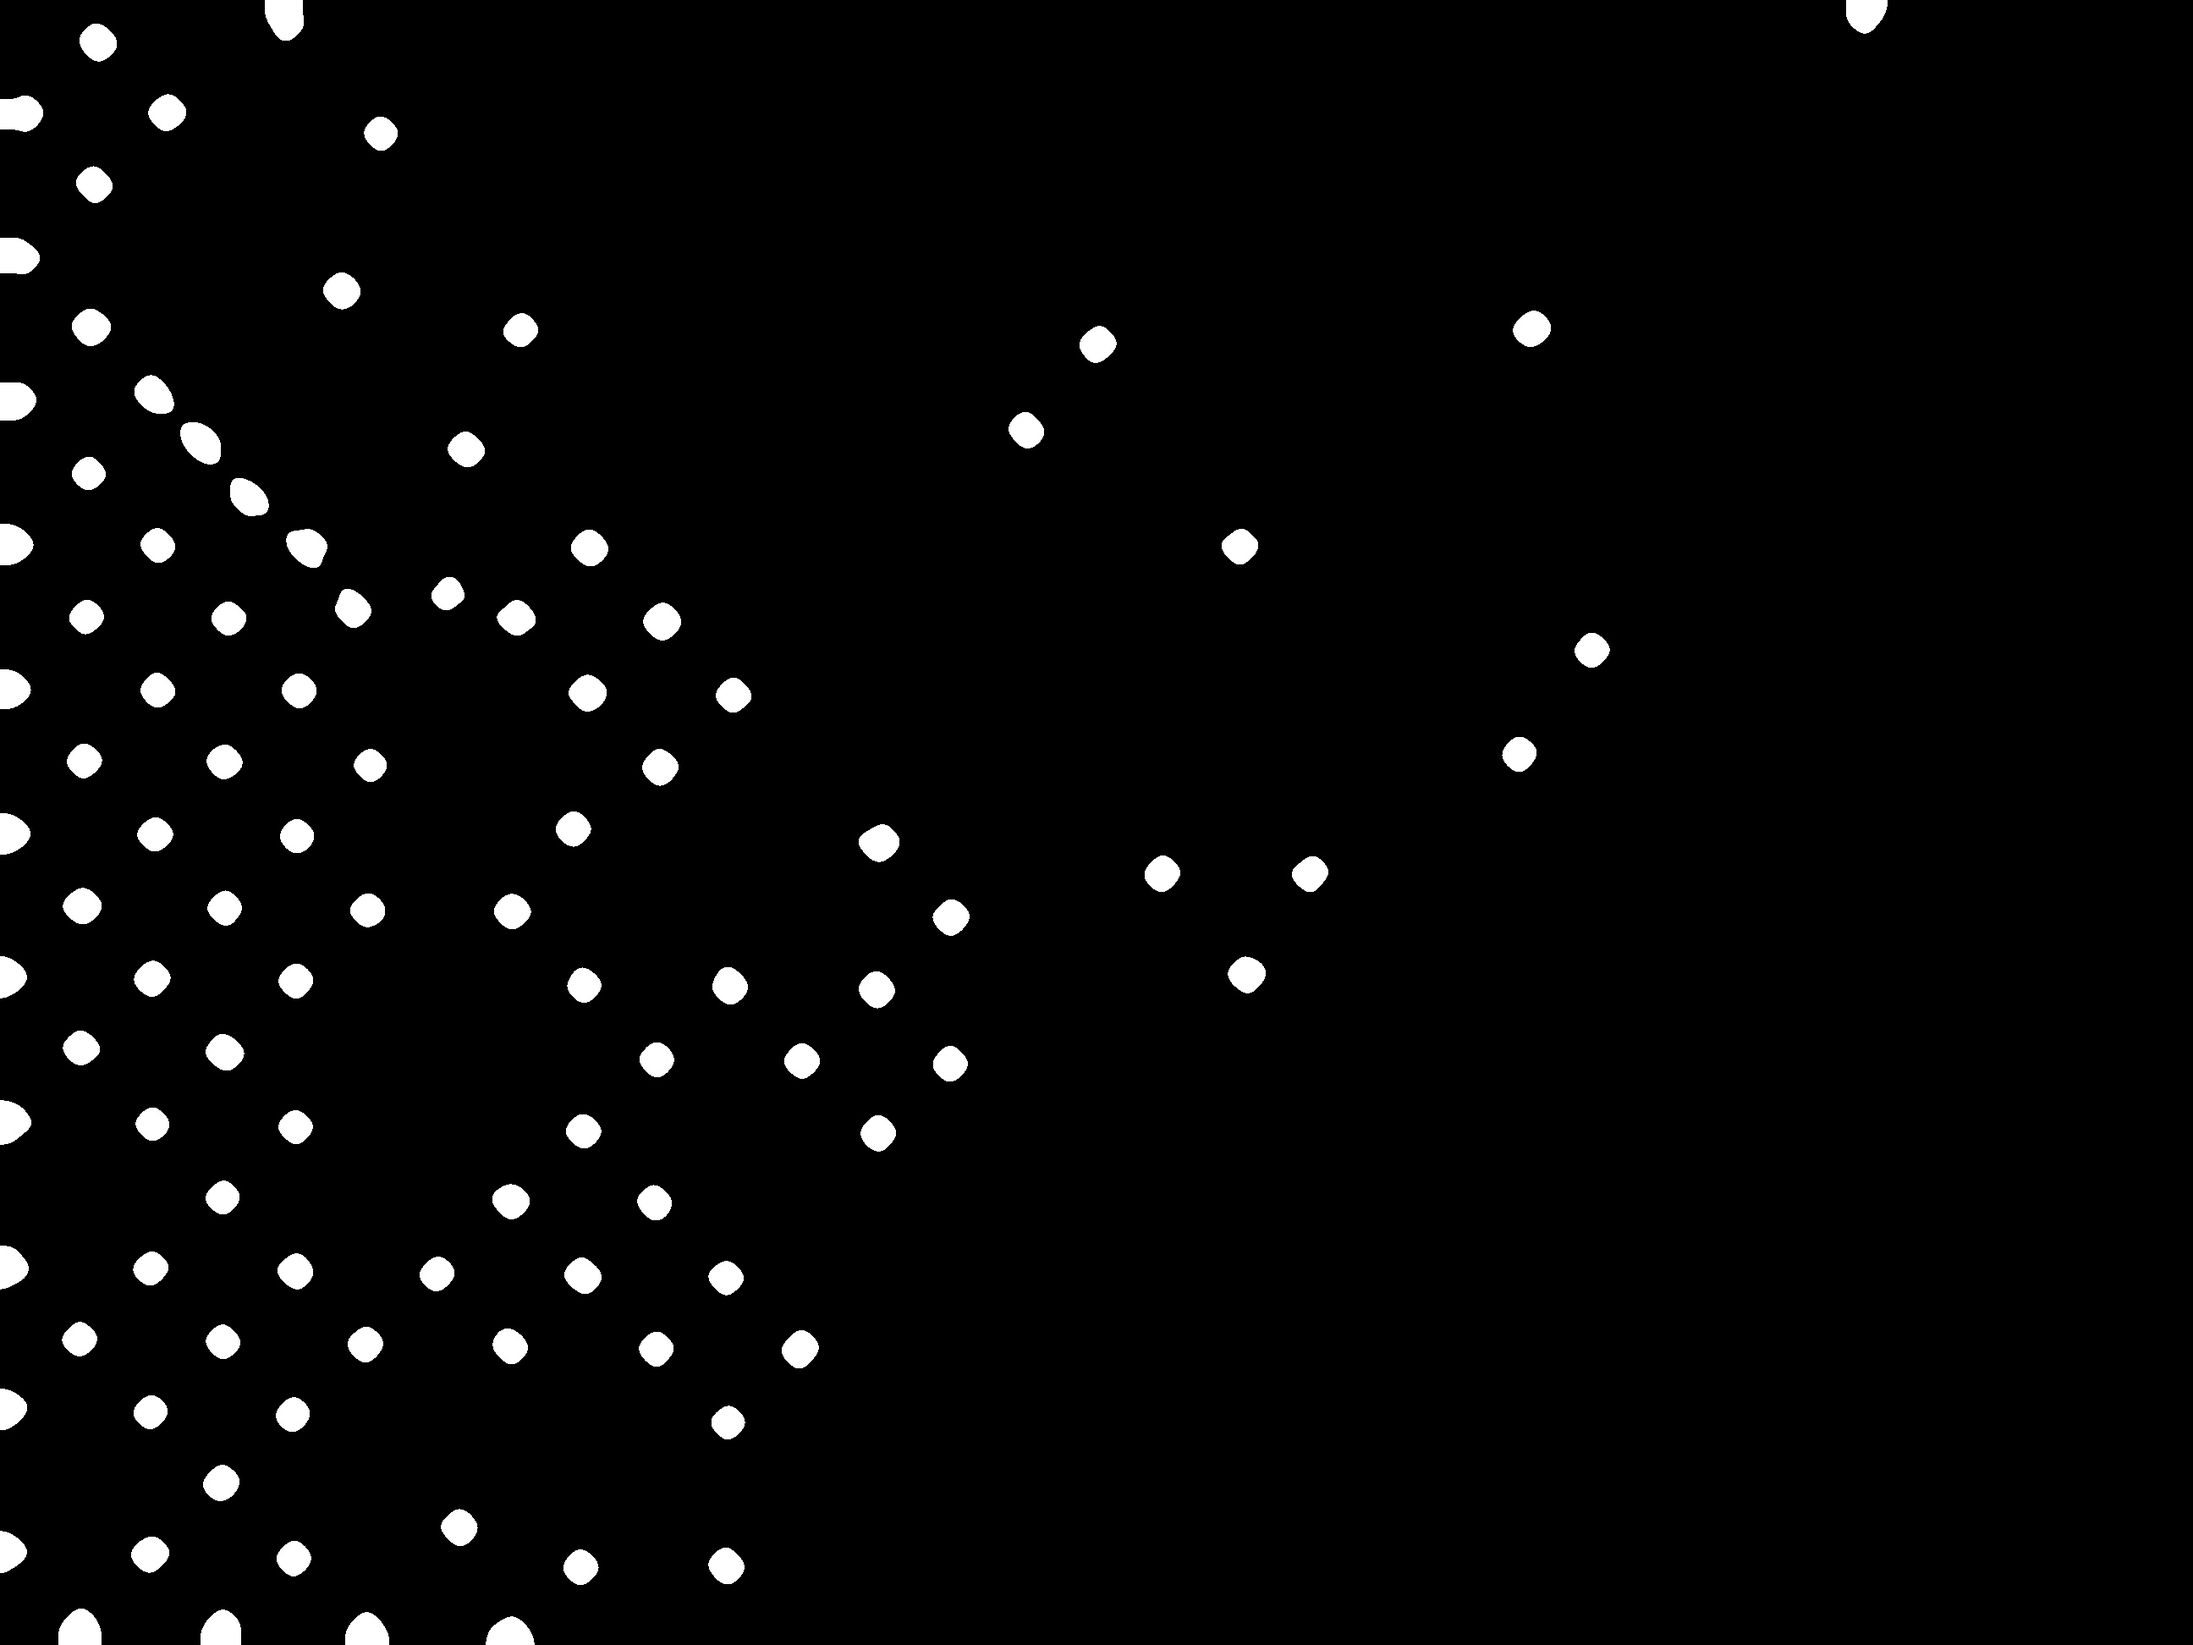
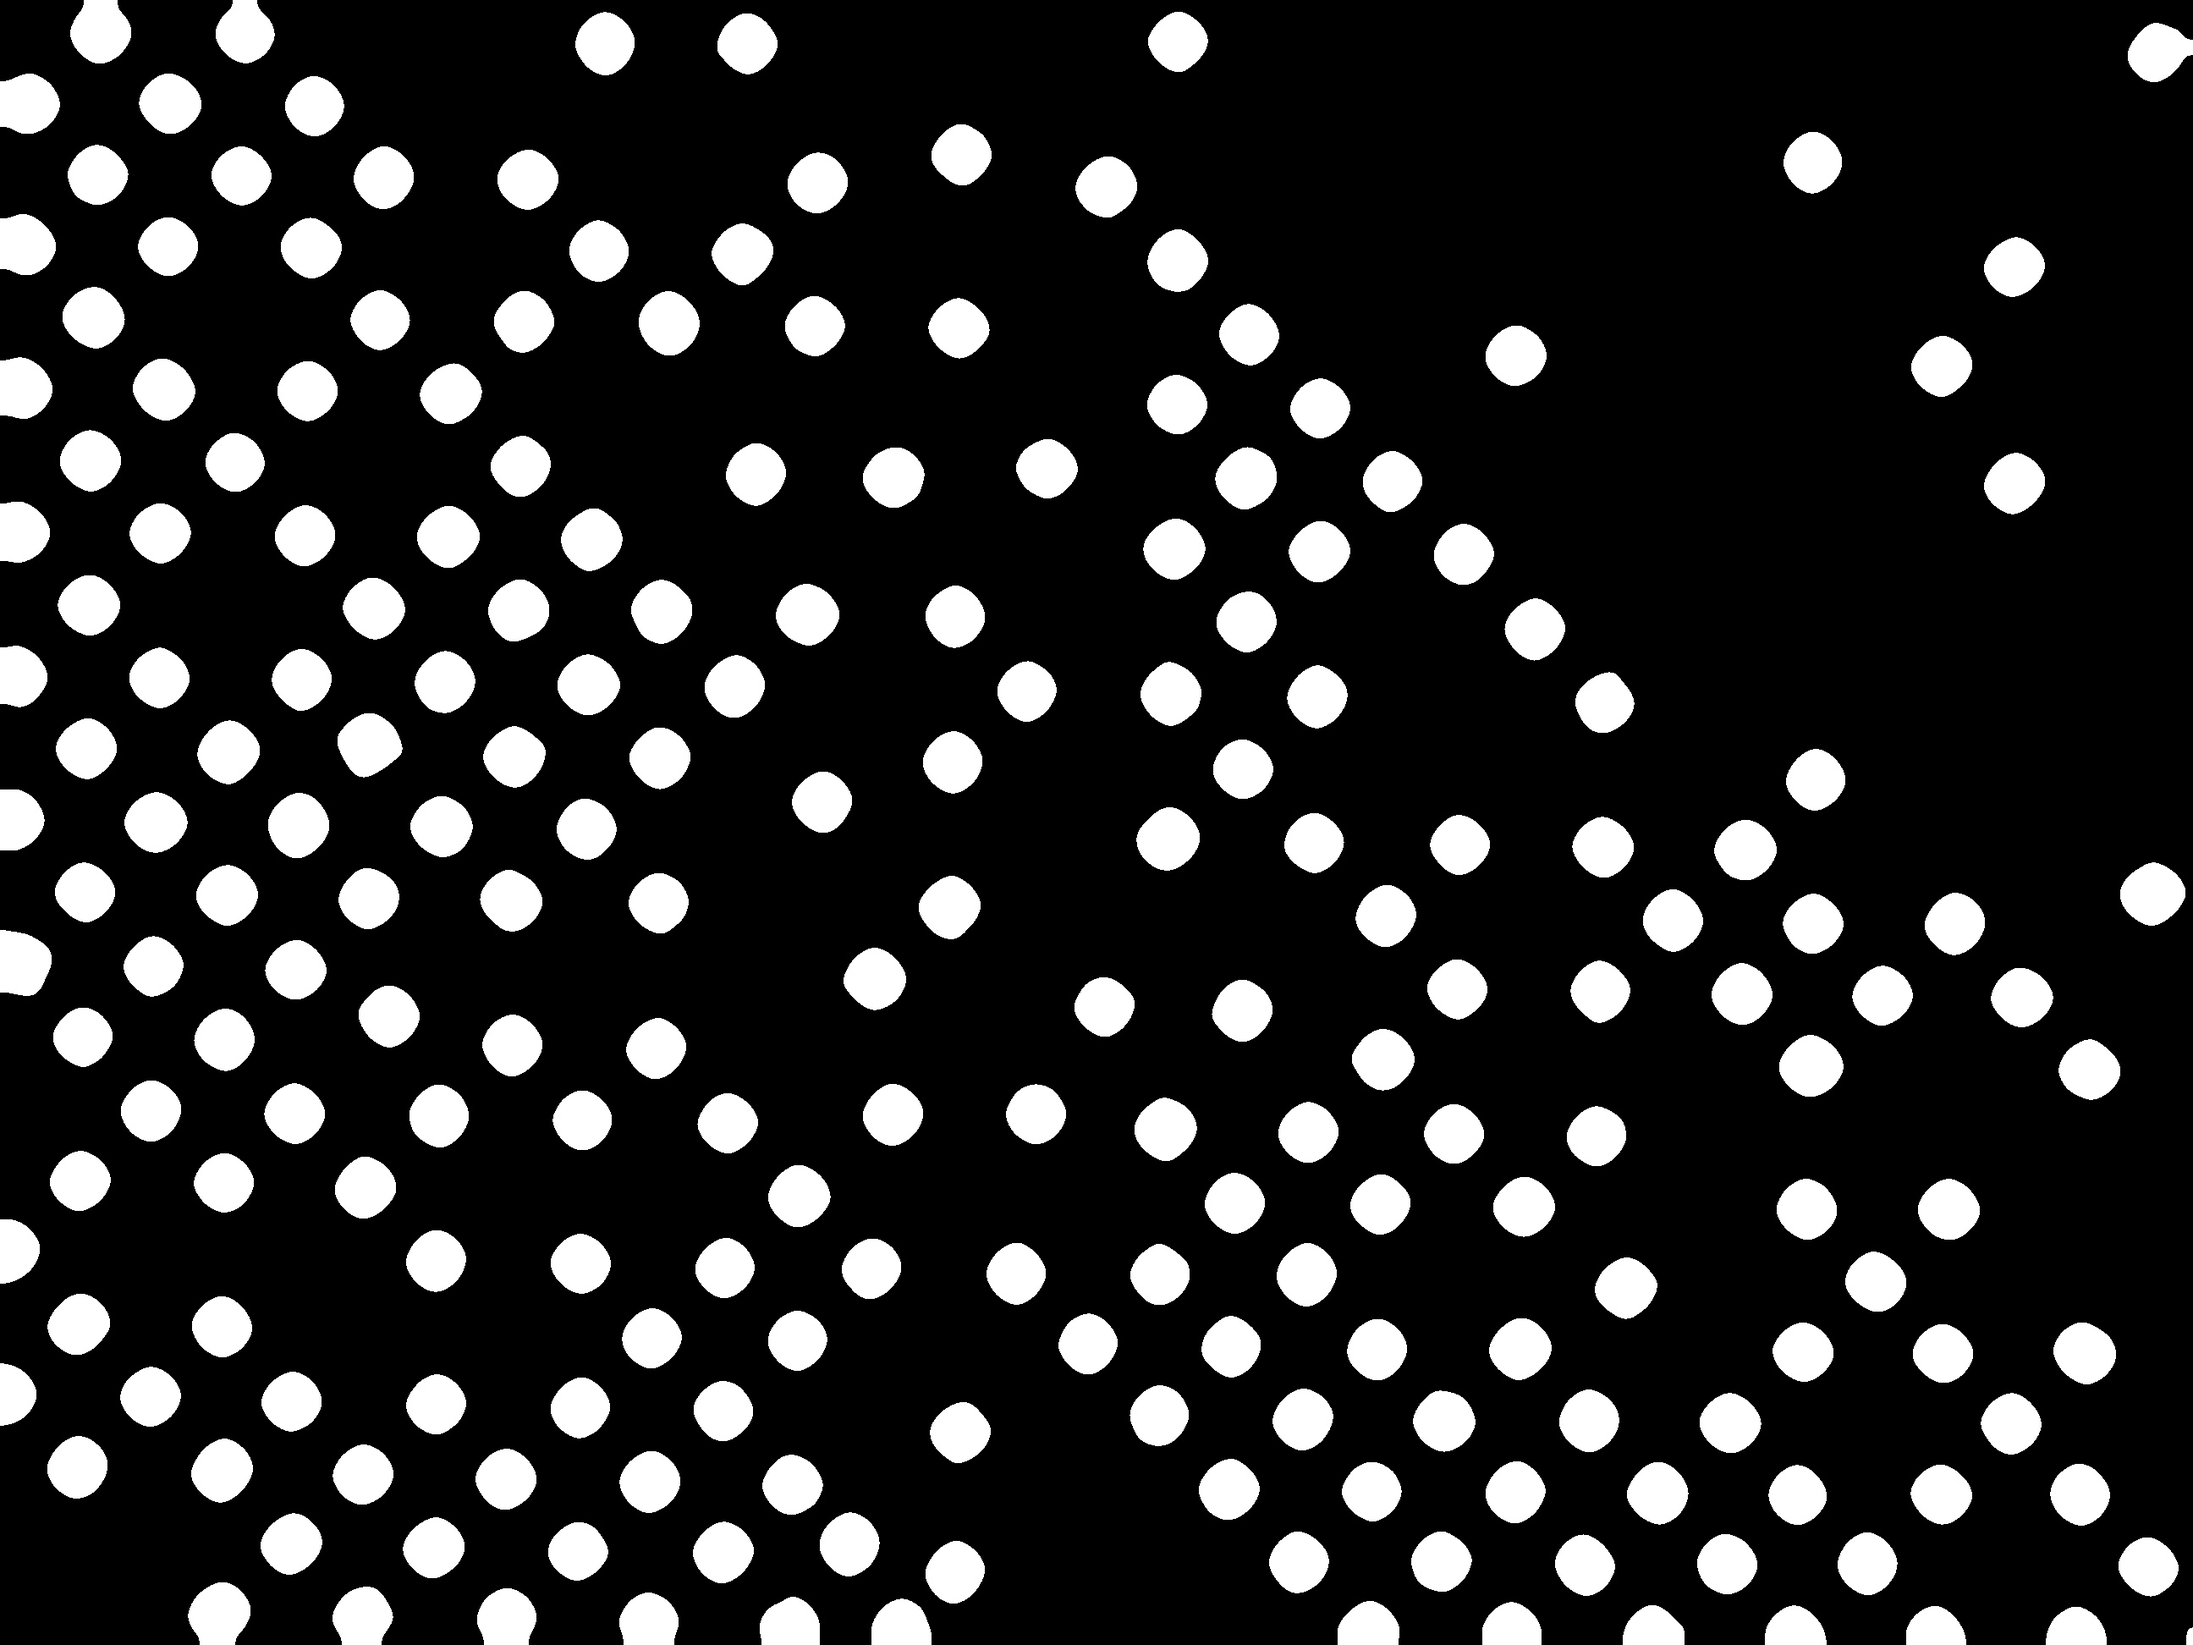
liveCV win

diff --git a/P-III/src/computerVision/test.stdin.py b/P-III/src/computerVision/test.stdin.py
@@ -6,13 +6,116 @@
 # @Last Modified by:   vincent evrard
 # @Last Modified time: 2022-10-18 00:14:27
 
-import sys
-import select
-sys.stdout.reconfigure(encoding='utf-8')
-sys.stdin.reconfigure(encoding='utf-8')
 
-while True :
-	i, o, e  = select.select( [sys.stdin], [], [], 0.1)
-	if len(i) > 0 :
-		res = sys.stdin.readline().strip()
-		sys.stdout.write(res)
+import sys
+import threading
+
+last_line = ''
+new_line_event = threading.Event()
+
+def keep_last_line():
+    global last_line, new_line_event
+    for line in sys.stdin:
+        last_line = line
+        new_line_event.set()
+
+keep_last_line_thread = threading.Thread(target=keep_last_line)
+keep_last_line_thread.daemon = True
+keep_last_line_thread.start()
+flag = True
+while(flag):
+	if( "close" in last_line):
+		flag=False
+	elif(last_line):
+		print(last_line)
+		last_line=''
+		
+print("Finished")
+quit()
+
+# import sys
+# try:
+#     import thread
+# except ImportError:
+#     import _thread as thread
+# from threading import Timer
+
+# sys.stdout.reconfigure(encoding='utf-8')
+# sys.stdin.reconfigure(encoding='utf-8')
+
+
+# def run_with_timeout(timeout, kill, default, f, *args, **kwargs):
+#     if not timeout:
+#         return f(*args, **kwargs)
+#     try:
+#         timeout_timer = Timer(timeout, thread.interrupt_main)
+#         timeout_timer.start()
+#         result = f(*args, **kwargs).strip()
+#         return result
+#     except KeyboardInterrupt:
+#         return kill
+#     finally:
+#         timeout_timer.cancel()
+
+# while(True):
+#     line = run_with_timeout(1, None, False, sys.stdin.readline)
+#     if line is None:
+#         break
+#     elif line is False:
+#         print(".")
+#     else:
+#         print(line)
+
+
+# async def readStdin(timeout=None):
+# 	try:
+# 		return await asyncio.wait_for(sys.stdin.readline(), timeout)
+# 	except asyncio.TimeoutError:
+# 		print("fail");
+# 		return False
+
+
+# async def main():
+# 	while(True):
+# 		try :
+# 			await asyncio.wait_for(fetch_data(), 5)
+# 		except asyncio.TimeoutError:
+# 			print(à)
+
+# async def fetch_data():
+#     await asyncio.sleep(100000)
+#     raise Exception('No data')
+
+# asyncio.run(main())
+
+
+# lines = sys.stdin.readlines()
+# print(lines)
+
+# poll_obj = select.poll()
+# poll_obj.register(sys.stdin, select.POLLIN)
+# while(true):
+#     poll_result = poll_obj.poll(0)
+#     if poll_result:
+#         line = sys.stdin.readline()
+#         print(line)
+
+
+
+# while True :
+# 	line = sys.stdin.readline()
+# 	print(line)
+	# if len(i) > 0 :
+	# 	res = sys.stdin.readline().strip()
+	# 	sys.stdout.write(res)
+
+
+# def read_stdin():
+#     readline = sys.stdin.readline()
+#     while readline:
+#         yield readline
+#         readline = sys.stdin.readline()
+
+# for line in read_stdin():
+#     line = line.split()
+#     print(line)

diff --git a/P-III/src/computerVision/liveCV.py b/P-III/src/computerVision/liveCV.py
@@ -14,7 +14,25 @@ import select
 import json
 import os
 from Pill import Pill
+import threading
 
+dataPath=os.environ['PIII_PATH']+"/data/"
+
+
+last_line = ''
+new_line_event = threading.Event()
+
+def keep_last_line():
+    global last_line, new_line_event
+    for line in sys.stdin:
+        last_line = line
+        new_line_event.set()
+
+keep_last_line_thread = threading.Thread(target=keep_last_line)
+keep_last_line_thread.daemon = True
+keep_last_line_thread.start()
+isRunning = True
+ 
 # create a device manager
 device_manager = gx.DeviceManager()
 
@@ -50,7 +68,7 @@ cam.stream_on()
 sys.stdout.reconfigure(encoding='utf-8')
 sys.stdin.reconfigure(encoding='utf-8')
 
-while True :
+while(isRunning) :
     raw_image = cam.data_stream[0].get_image()
     if raw_image is None:
         # print("Getting image failed.")
@@ -70,10 +88,12 @@ while True :
     #numpy image to opencv image
     img = cv2.cvtColor(numpy.asarray(numpy_image),cv2.COLOR_BGR2RGB)
     
-    i, o, e  = select.select( [sys.stdin], [], [], 0.1)
-    if len(i) > 0 :
-        res = sys.stdin.readline().strip()
-        
+    
+    if( "close" in last_line):
+        last_line =""
+        isRunning=False
+    elif(last_line):
+        last_line =""
         # imLab = cv2.cvtColor(cvImg, cv2.COLOR_BGR2LAB)
         gray = cv2.cvtColor(img, cv2.COLOR_BGR2GRAY)
         blur = cv2.GaussianBlur(gray,(11, 11),0)
@@ -84,19 +104,29 @@ while True :
         _, thresh2 = cv2.threshold(blur,68,255,cv2.THRESH_BINARY)
         contours, _ = cv2.findContours(thresh2, cv2.RETR_TREE, cv2.CHAIN_APPROX_SIMPLE)
 
+
+        cv2.imwrite(dataPath+'camera.jpg', img)
+        cv2.imwrite(dataPath+'mask.eroded.jpg', thresh2)
+        # print(len(contours))
         # cv2.imwrite(dataPath+'mask.jpg', thresh1)
         # cv2.imwrite(dataPath+'mask.eroded.jpg', thresh2)
         pills = []
         for cnt in contours :
-            pill = Pill(cnt, cvImg)
+            pill = Pill(cnt, img)
             if hasattr(pill, 'bBox'): 
-                pills.append(pill.toObj())
-        print(json.dumps(pills))
+              pills.append(pill.toObj())
+        rawData = json.dumps(pills)
+        splitedData = [rawData[i:i+256] for i in range(0, len(rawData), 256)]
 
-        cv2.imwrite(dataPath+'camera.jpg', cvImg)
-        cv2.imwrite(dataPath+'mask.eroded.jpg', thresh2)
+        for chunck in splitedData :
+            sys.stdout.write(chunck)
+        sys.stdout.write("\n")
+
 
 # stop data acquisition
 cam.stream_off()
 # close device
 cam.close_device()
+       
+print("Finished")
+quit()

diff --git a/P-III/src/computerVision/Pill.py b/P-III/src/computerVision/Pill.py
@@ -18,7 +18,8 @@ class Pill:
         self.area = M["m00"]
         # self.perimeter = cv2.arcLength(contour, True)
         # self.circularity = getCircularity(self.area, self.perimeter)
-        if self.area > 1000 and self.area < 1600: # and self.circularity > 0.75 :
+        # print(self.area)
+        if self.area > 2500 and self.area < 4000: # and self.circularity > 0.75 :
             self.centroid = (M["m10"]/M["m00"], M["m01"]/M["m00"])
 
             x, y, w, h = cv2.boundingRect(contour)
@@ -33,7 +34,7 @@ class Pill:
             self.avgRGB = (int(b), int(g), int(r))
     def toObj(self):
         return {
-            "center" : [self.centroid[0], self.centroid[1]],
+            "center" : [float("{:.2f}".format(self.centroid[0])), float("{:.2f}".format(self.centroid[1]))],
             "avgRGB" : [self.avgRGB[2], self.avgRGB[1], self.avgRGB[0]],
             "box" : [self.bBox["x"],self.bBox["y"], self.bBox["w"], self.bBox["h"]]
         }
